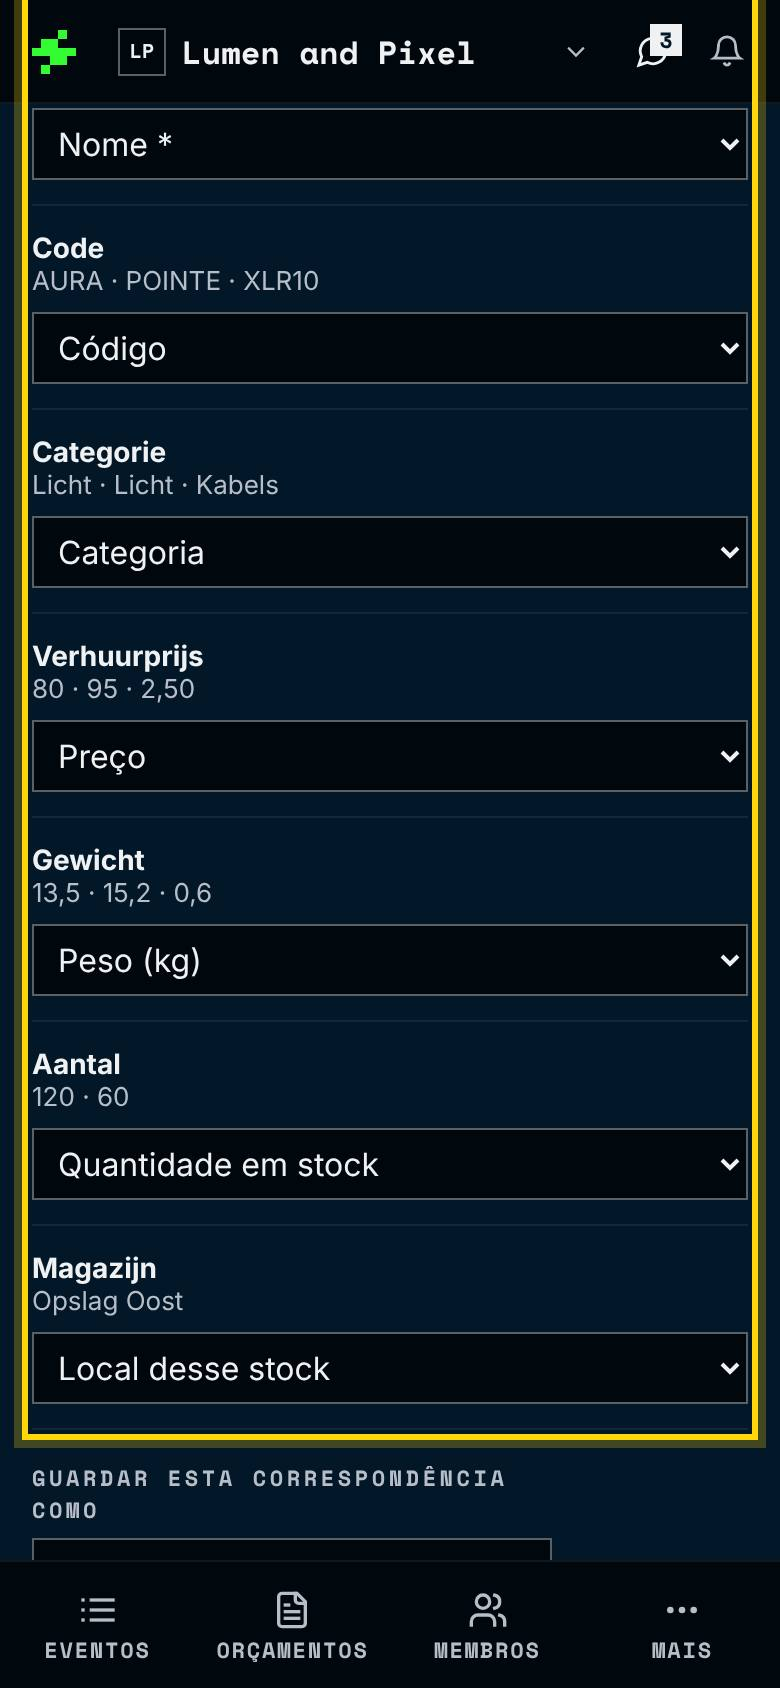
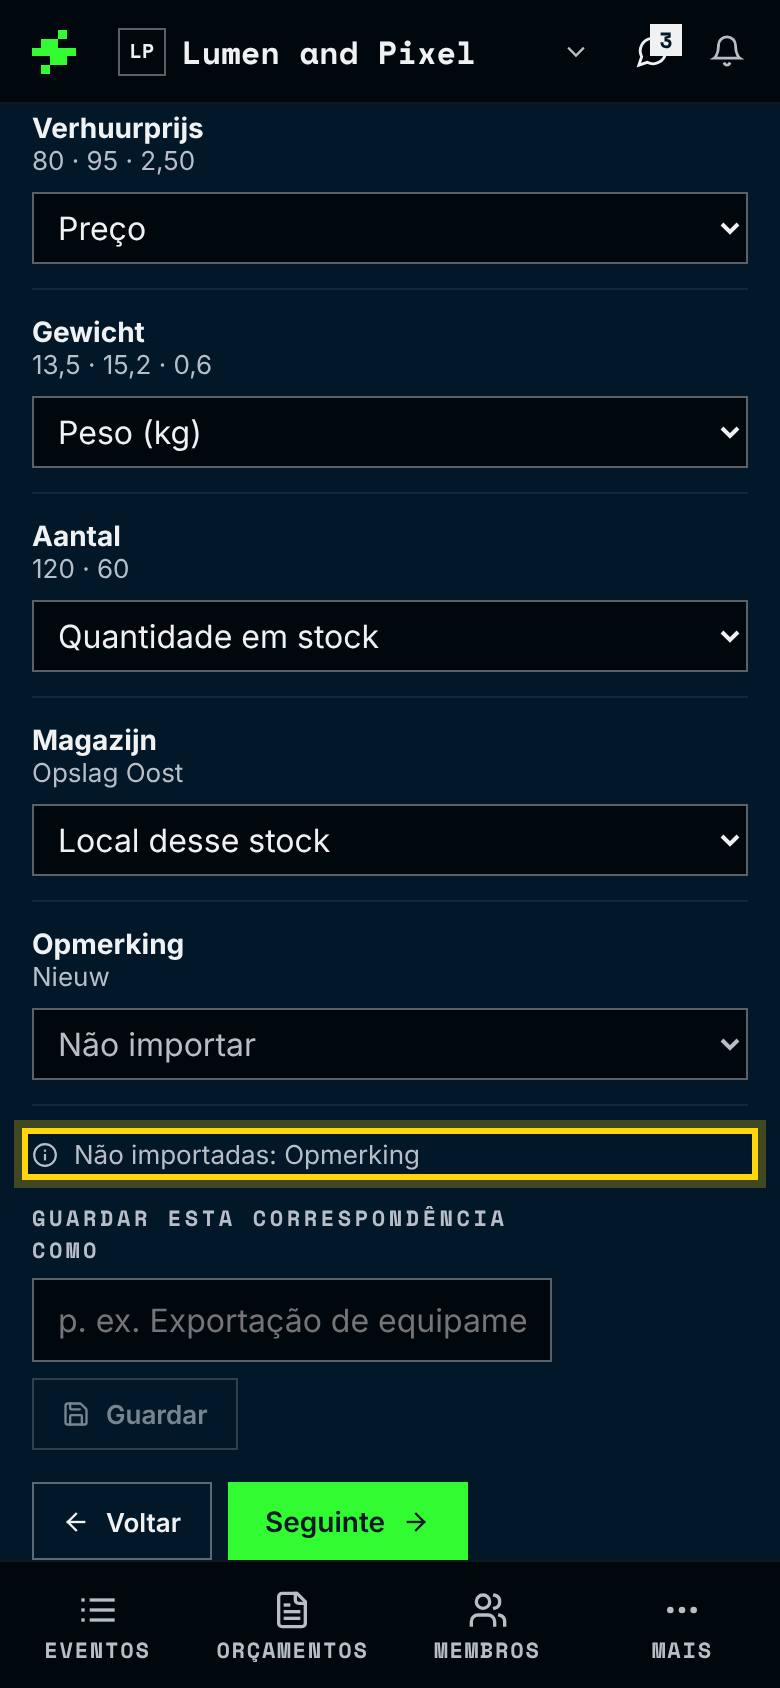
Import IM2: browser tests and help screenshots (WIP)
Claude-Session: https://claude.ai/code/session_01TrujDL3TAg3HLsZ6xH6Yju

diff --git a/e2e/auth/import.spec.js b/e2e/auth/import.spec.js
@@ -1,3 +1,4 @@
+import { readFile } from 'node:fs/promises'
 import { test, expect } from '@playwright/test'
 import AxeBuilder from '@axe-core/playwright'
 import { RUN, PASSWORD, testEmail } from './accounts.js'
@@ -87,6 +88,50 @@ test('an equipment file with an unknown location: add it from the check, import,
   await row.click()
   await expect(page.getByText('warehouse').first()).toBeVisible({ timeout: 15_000 })
   await expect(page.getByText(/\b12\b/).first()).toBeVisible()
+})
+
+// IM2, a Choose fix: a title line above the headings is noticed, and the headings row suggested
+test('a file with a title line: the headings row is suggested and the rows import', async ({ page }) => {
+  await signIn(page)
+  await page.goto(`${orgPath}/inventory/import?kind=items`)
+  await page.locator('#imp-paste').fill(`Stock list ${RUN}\nName\tCode\tQuantity\tLocation\tColour\nE2E Lamp ${RUN}\tE2E-L-${RUN}\t3\twarehouse\tred`)
+  await expect(page.getByRole('spinbutton', { name: 'The headings are on row' })).toHaveValue('2')
+  await expect(page.getByText('Suggested: the rows above look like titles.')).toBeVisible()
+  await expect(page.getByText('1 rows and 5 columns found.')).toBeVisible()
+  await expectAccessible(page)
+  await page.getByRole('button', { name: 'Next' }).click()
+
+  // The headings are the file's second line, and the column nothing takes is listed
+  await expect(page.getByRole('combobox', { name: /Quantity/ })).toBeVisible()
+  await expect(page.getByText('Not imported: Colour')).toBeVisible()
+  await expectAccessible(page)
+  await page.getByRole('button', { name: 'Next' }).click()
+  const importButton = page.getByRole('button', { name: 'Import 1 row' })
+  await expect(importButton).toBeEnabled({ timeout: 15_000 })
+  await importButton.click()
+  await expect(page.getByRole('status').filter({ hasText: '1 added · 0 updated · 0 unchanged · 0 skipped' })).toBeVisible({ timeout: 20_000 })
+})
+
+// IM2, a Done fix: the rows left out download with the file's own columns and a Problem column
+test('rows left out in the check download with their data and the problem', async ({ page }) => {
+  await signIn(page)
+  await page.goto(`${orgPath}/inventory/import?kind=items`)
+  await page.locator('#imp-paste').fill(`Name\tCode\tPrice\nE2E Desk ${RUN}\tE2E-D-${RUN}\t40\nE2E Stand ${RUN}\tE2E-S-${RUN}\tlots`)
+  await page.getByRole('button', { name: 'Next' }).click()
+  await page.getByRole('button', { name: 'Next' }).click()
+  // Nobody decides on the bad price, so that row is left out
+  await expect(page.getByText('1 row waiting for a decision will be left out.')).toBeVisible({ timeout: 15_000 })
+  await page.getByRole('button', { name: 'Import 1 row' }).click()
+  await expect(page.getByRole('status').filter({ hasText: '1 added · 0 updated · 0 unchanged · 0 skipped' })).toBeVisible({ timeout: 20_000 })
+
+  const button = page.getByRole('button', { name: 'Download the row left out' })
+  await expect(button).toBeVisible()
+  await expectAccessible(page)
+  const [download] = await Promise.all([page.waitForEvent('download'), button.click()])
+  const csv = (await readFile(await download.path(), 'utf8')).replace(/^\uFEFF/, '').split('\n')
+  expect(csv[0]).toBe('Name,Code,Price,Problem')
+  expect(csv[1]).toBe(`E2E Stand ${RUN},E2E-S-${RUN},lots,Price: not a number`)
+  expect(csv).toHaveLength(2)
 })
 
 test('clean up: the user deletes their account', async ({ page }) => {
